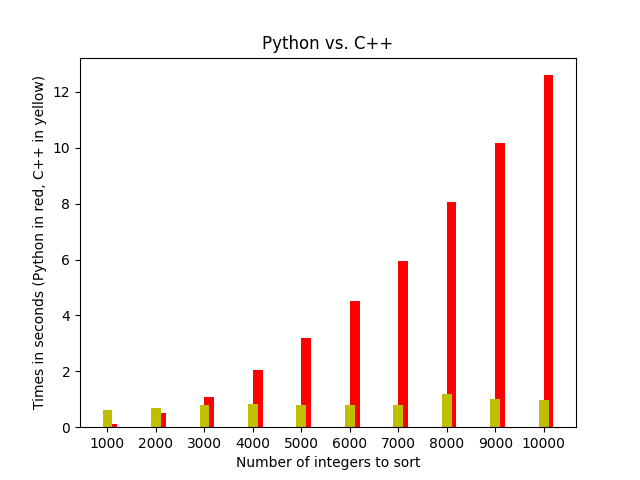
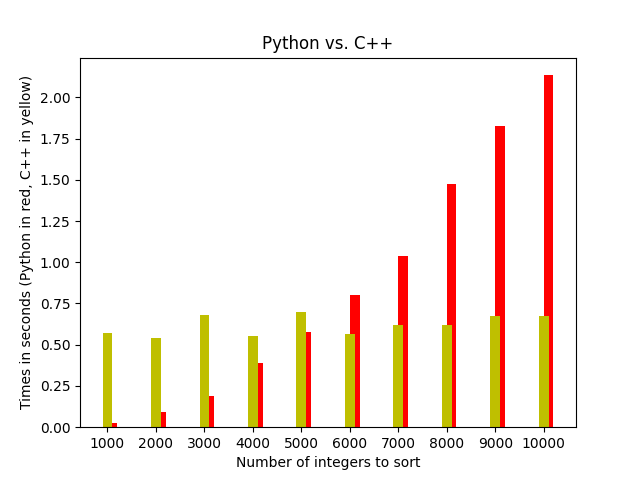
Changed MergeSort to RadixSort bc I couldn't get it to work

diff --git a/Sorting.py b/Sorting.py
@@ -41,10 +41,10 @@ def selection_sort(size):
     print(f"Vector size: {len(nums)}")
 
     #Selection sort algorithm
-    for swapIndex in range(len(nums)):
+    for swapIndex in range(0, len(nums)):
         #Loop through starting at swapIndex keeping track of the min
         minIndex = swapIndex
-        for i in range(len(nums)):
+        for i in range(swapIndex, len(nums)):
             if(nums[i] < nums[minIndex]):
                 #there is a new minimum value
                 minIndex = i
@@ -60,9 +60,8 @@ def selection_sort(size):
     print("...")
     print(nums[-10:])
 
-
-# Merge sort the vector
-def merge_sort(size):
+# Radix Sort the vector
+def radix_sort(size):
     print("Looking for size " + str(size) + "\n")
 
     nums = []
@@ -74,61 +73,12 @@ def merge_sort(size):
     # print vector size to make sure it matches number in previous print statement
     print(f"Vector size: {len(nums)}")
 
-    # Calls the recursive merge sort function
-    sort_merge(nums, 0, len(nums)-1)
+    #Radix sort algorithm
+    buckets = [][] * 10
+    for i in range
 
     # print the first and last ten numbers to demonstrate correct sorting
     print("To show that it worked, here are the first ten and last ten numbers:")
     print(nums[:10])
     print("...")
     print(nums[-10:])
-
-def merge(nums, start_value, center_value, end_value):
-    left_end = center_value - start_value + 1
-    right_end = end_value - center_value
-
-    #Create temp arrays for the left and right halves
-    left_temp = [0] * left_end
-    right_temp = [0] * right_end
-
-    # Copy numbers into the temp arrays
-    for i in range(0, left_end):
-        left_temp[i] = nums[start_value + i]
-    for j in range(0, right_end):
-        right_temp[i] = nums[center_value + 1 + j]
-
-    # Merge the temp arrays back into nums
-    left_index = 0    # first index of left temp array
-    right_index = 0    # first index of right temp array
-    merged_index = 0    # first index of merged array
-
-    while left_index < left_end and right_index < right_end:
-        if left_temp[left_index] <= right_temp[right_index]:
-            nums[merged_index] = left_temp[left_index]
-            left_index += 1
-        else:
-            nums[merged_index] = right_temp[right_index]
-            right_index += 1
-        merged_index += 1
-
-    #Copy the remaining elements of left_temp
-    while left_index < left_end:
-        nums[merged_index] = left_temp[left_index]
-        left_index += 1
-        merged_index += 1
-
-    # Copy the remaining elements of right_temp
-    while right_index < right_end:
-        nums[merged_index] = right_temp[right_index]
-        right_index += 1
-        merged_index += 1
-
-
-def sort_merge(nums, start_value, end_value):
-    if start_value < end_value:
-        center_value = (start_value + (end_value - 1)) // 2
-
-        # Sort first and second halves
-        sort_merge(nums, start_value, center_value)
-        sort_merge(nums, center_value + 1, end_value)
-        merge(nums, start_value, center_value, end_value)

diff --git a/cpp/RadixSort.cpp b/cpp/RadixSort.cpp
@@ -1,0 +1,86 @@
+#include <ctime>
+#include <fstream>
+#include <iostream>
+#include <string>
+#include <vector>
+#include <cmath>
+using namespace std;
+
+
+int main(int argc, char* argv[]) {
+    int size;
+    // Get command line input
+    if (argc > 1) {
+        size = stoi(argv[1]);
+    } else {
+        size = 10000;
+    }
+    cout << "Looking for size: " << size << endl;
+    
+    // Declare a vector of longs to store the numbers
+    vector<long> numbers;
+    
+    // Read size numbers from numbers.txt
+    ifstream inFile;
+    inFile.open("numbers.txt");
+    long num;
+    for(int i=0; i<size; ++i) {
+        if(inFile) {
+            inFile >> num;
+            numbers.push_back(num);
+        }
+    }
+    
+    // Print the vector size (to make sure it matches the size printed above)
+    cout << "The vector has a size of " << numbers.size() << endl;
+
+    //Radix sorts the vector
+    
+    //Finds the largest number and it's number of digits
+    int largest = numbers[0];
+    for(int i=1; i<numbers.size(); i++) {
+        if (numbers[i] > largest) {
+            largest = number[i];
+        }
+    }
+    int numDigits, count;
+    if(largest == 0) {
+        count = 1;
+    }
+    while (largest!=0) {
+        largest = largest / 10;
+        count ++;
+    }
+    numDigits = count;
+
+    //Sort the vector
+    int iteration, i, digit, bucket, item;
+    vector<vector<int>> buckets(10);
+    for (iteration = 0; iteration < numDigits; ++iteration) {
+        // Copy everything from numbers into buckets
+        for (i = 0; i < numbers.size(); ++i) {
+            digit = (numbers[i] / int(pow(10, iteration)) % 10);
+            buckets[digit].push_back(numbers[i]);
+        }
+        // Copy everything from buckets back into numbers
+        i = 0;
+        for (bucket = 0; bucket < buckets.size(); ++bucket) {
+            for (item = 0; item < buckets[bucket].size(); ++item) {
+                numbers[i] = buckets[bucket][item];
+                i++;
+            }
+            buckets[bucket].clear();
+        }
+    }
+
+    // Print the first and last ten numbers from the vector to the console
+    for(int i = 0; i < 10; i++) {
+        cout << numbers[i] << ", ";
+    }
+    for(int j = numbers.size() - 10; j < numbers.size(); j++) {
+        cout << numbers[j] << ", ";
+    }
+
+
+    return 0;
+}

diff --git a/Main.py b/Main.py
@@ -279,7 +279,7 @@ plt.xticks(sizes)
 # Label the y axis
 plt.ylabel('Times in seconds (Python in red, C++ in yellow)')
 # Save the graph to a file
-plt.savefig('graphs/BattleOfTheBubbleSorts.png')
+plt.savefig('BattleOfTheBubbleSorts.png')
 # Display the graph in a new window
 plt.show()
 
@@ -314,7 +314,7 @@ plt.xticks(sizes)
 # Label the y axis
 plt.ylabel('Times in seconds (Python in red, C++ in yellow)')
 # Save the graph to a file
-plt.savefig('graphs/BattleOfTheSelectionSorts.png')
+plt.savefig('BattleOfTheSelectionSorts.png')
 # Display the graph in a new window
 plt.show()
 
@@ -349,6 +349,6 @@ plt.xticks(sizes)
 # Label the y axis
 plt.ylabel('Times in seconds (Python in red, C++ in yellow)')
 # Save the graph to a file
-plt.savefig('graphsBattleOfTheMergeSorts.png')
+plt.savefig('BattleOfTheMergeSorts.png')
 # Display the graph in a new window
 plt.show()
